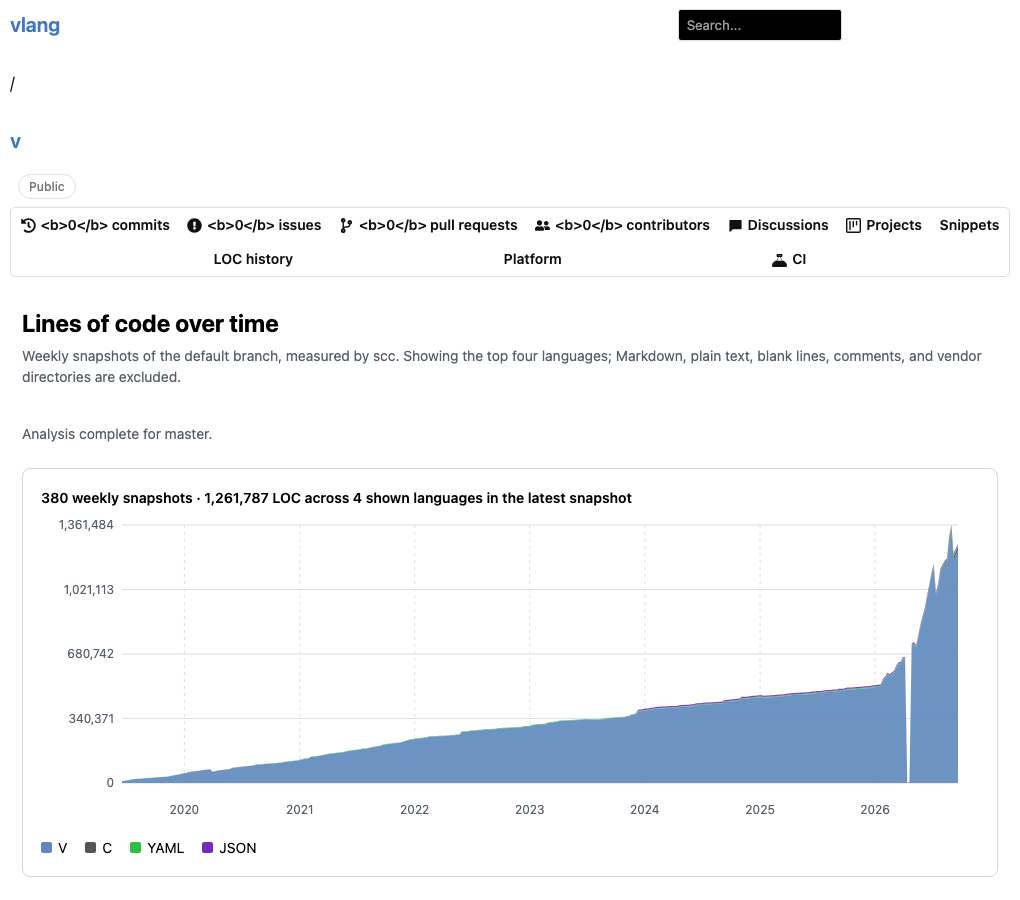
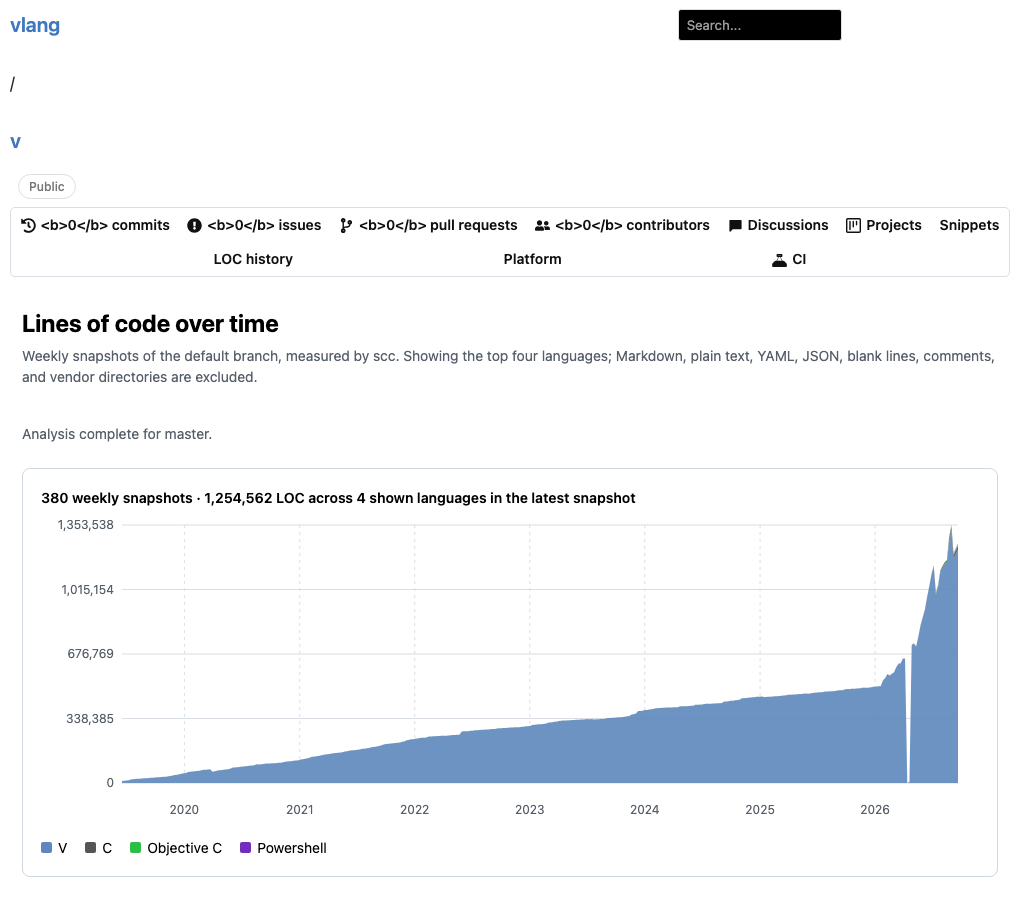
Exclude YAML and JSON from repository LOC history

diff --git a/templates/repo/loc_history.html b/templates/repo/loc_history.html
@@ -12,7 +12,7 @@
 				<div class="loc-history__heading">
 					<div>
 						<h1>Lines of code over time</h1>
-						<p>Weekly snapshots of the default branch, measured by scc. Showing the top four languages; Markdown, plain text, blank lines, comments, and vendor directories are excluded.</p>
+						<p>Weekly snapshots of the default branch, measured by scc. Showing the top four languages; Markdown, plain text, YAML, JSON, blank lines, comments, and vendor directories are excluded.</p>
 					</div>
 					@if can_run
 						<form action="/@repo.user_name/@repo.name/loc" method="post" id="loc-start-form">

diff --git a/static/js/loc_history.js b/static/js/loc_history.js
@@ -24,7 +24,7 @@
     const languageRows = data.languages;
     const bySnapshot = new Map(snapshots.map(snapshot => [snapshot.id, new Map()]));
     for (const row of languageRows) {
-      if (row.name === "Markdown" || row.name === "Plain Text") continue;
+      if (["Markdown", "Plain Text", "YAML"].includes(row.name) || row.name.startsWith("JSON")) continue;
       const counts = bySnapshot.get(row.snapshot_id);
       if (!counts) continue;
       const name = row.name === "C Header" ? "C" : row.name;
